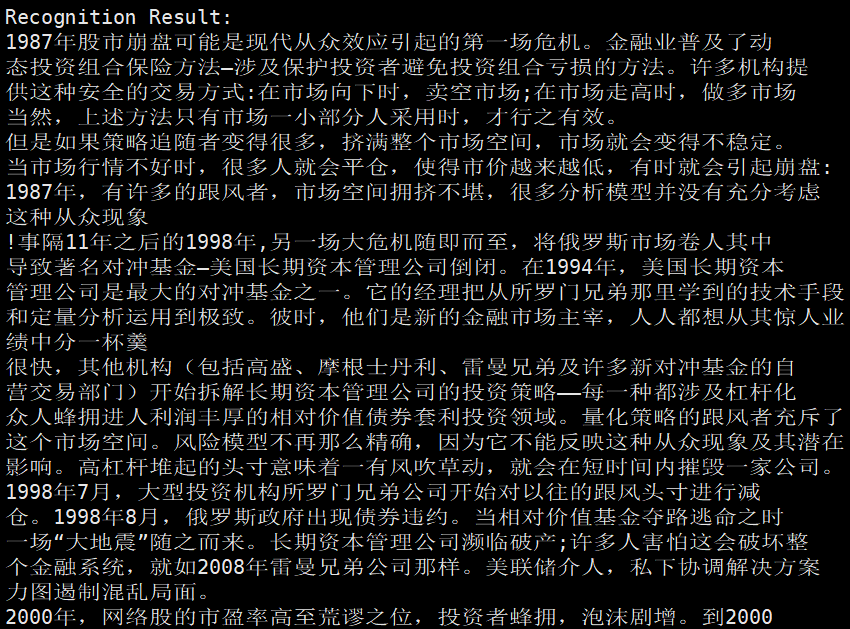
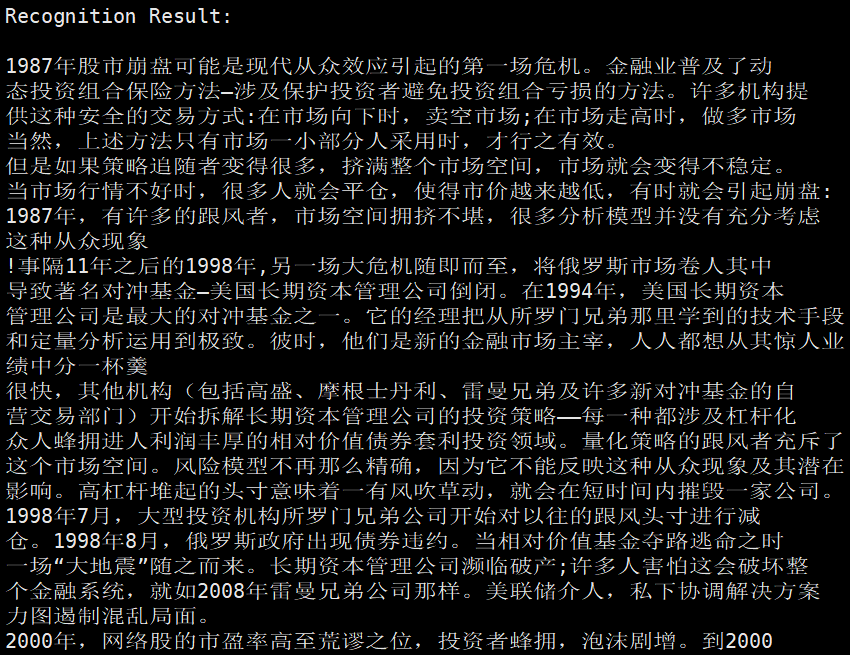
update

diff --git a/demo.py b/demo.py
@@ -22,7 +22,7 @@ if __name__ == '__main__':
         output_file = os.path.join(result_dir, image_file.split('/')[-1])
         Image.fromarray(image_framed).save(output_file)
         print("Mission complete, it took {:.3f}s".format(time.time() - t))
-        print("\nRecognition Result:")
+        print("\nRecognition Result:\n")
         for key in result:
             print(result[key][1])
 

diff --git a/README.md b/README.md
@@ -55,7 +55,7 @@ python train.py
 ## 效果展示
 
 <div>
-<img width="420" height="420" src="https://github.com/YCG09/chinese_ocr/blob/master/demo/demo.jpg"/>
+<img width="420" height="420" src="https://github.com/YCG09/chinese_ocr/blob/master/demo/demo_detect.jpg"/>
 <img width="420" height="420" src="https://github.com/YCG09/chinese_ocr/blob/master/demo/demo_rec.jpg"/>
 </div>
 
